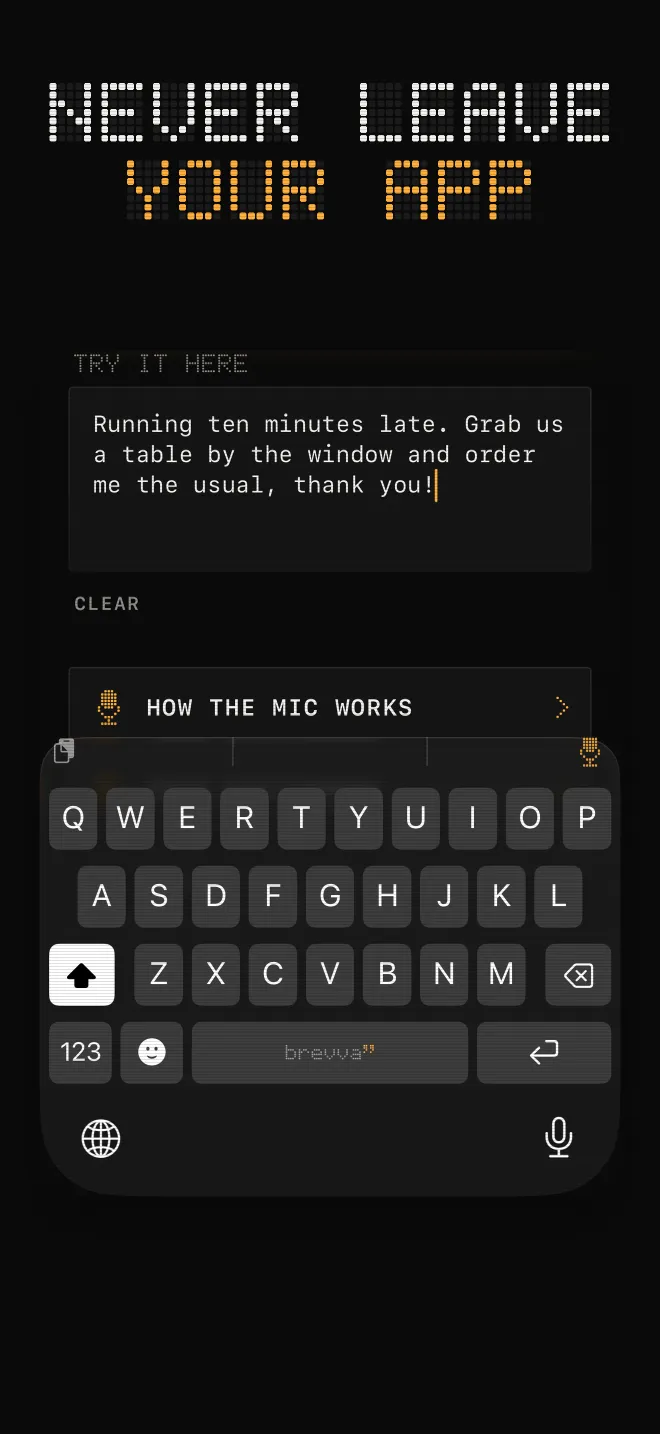
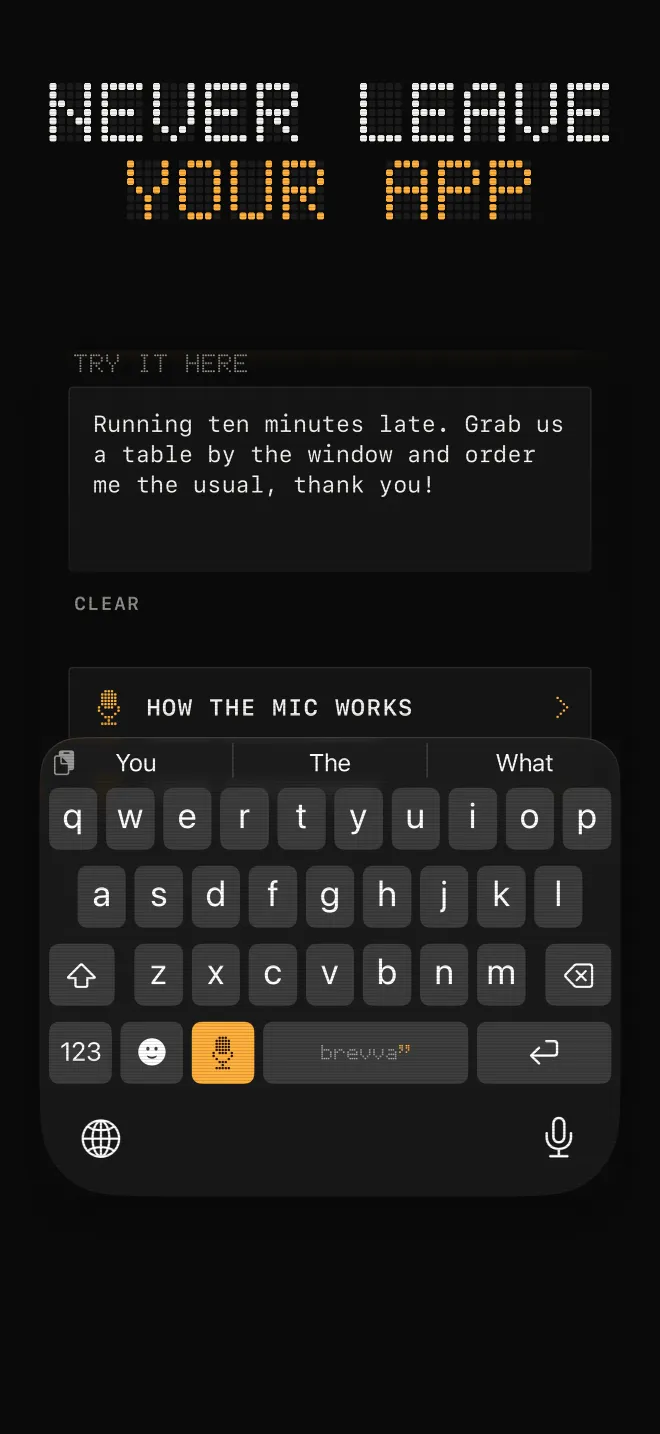
brevva keys: pictures of 2.1 (20), the mic key by the space bar, clipboard skips passwords from 2.1

diff --git a/brevva/privacy/index.html b/brevva/privacy/index.html
@@ -76,7 +76,7 @@
     <h2 id="typing">What you type</h2>
     <p>The keyboard reads the keys you tap and the shapes you swipe so it can show the letter, suggest words and fix slips. All of that happens on your iPhone. The keyboard makes no network connections of its own.</p>
     <p>To get better at your typing, it remembers some things on your iPhone: the words you keep, corrections you undo, which words tend to follow which, and where your thumbs tend to land on each key. The full list is <a href="#stored">below</a>.</p>
-    <p>With Full Access on, it also keeps your last ten copied snippets so you can paste them again from the bar above the keys. It looks at the clipboard when the keyboard opens, and only if something new was copied. It keeps any copied text of 500 characters or less. That can include a code or a password you copied in another app, so it is worth knowing it is there. It stays on your iPhone.</p>
+    <p>With Full Access on, it also keeps your last ten copied snippets so you can paste them again from the bar above the keys. It looks at the clipboard when the keyboard opens, and only if something new was copied. It keeps copied text of 500 characters or less. From version 2.1 it skips anything the copying app marks as a password or a one-time code (password managers mark them), and Clear at the end of the row empties the list. In version 2.0 it can keep a code or a password you copied, so it is worth knowing it is there. It stays on your iPhone.</p>
 
     <h2 id="voice">What you say</h2>
     <h3>In the keyboard (version 2.1)</h3>
@@ -102,7 +102,7 @@
         <tr><th scope="row">Where your thumbs land on each key</th><td data-h="Why">So taps near the edge of a key go to the key you meant.</td><td data-h="Remove">Settings › Your words › Forget how you tap.</td></tr>
         <tr><th scope="row">Words you dictate, with counts</th><td data-h="Why">So they are suggested when you type.</td><td data-h="Remove">Deleting the app. See <a href="#delete">the note below</a> about deleting them inside the app.</td></tr>
         <tr><th scope="row">Dictations from the keyboard, waiting for the app</th><td data-h="Why">So the app can count their words.</td><td data-h="Remove">Cleared the next time you open the app.</td></tr>
-        <tr><th scope="row">Your last ten copied snippets</th><td data-h="Why">So you can paste them again from the bar.</td><td data-h="Remove">Newer copies push older ones out. Deleting the app removes them.</td></tr>
+        <tr><th scope="row">Your last ten copied snippets</th><td data-h="Why">So you can paste them again from the bar.</td><td data-h="Remove">Newer copies push older ones out. Clear in the bar empties them (version 2.1). Deleting the app removes them.</td></tr>
         <tr><th scope="row">The last dictation handed to the keyboard</th><td data-h="Why">So the words reach the app you were typing in.</td><td data-h="Remove">Replaced by the next dictation.</td></tr>
         <tr><th scope="row">Recent emoji and your settings</th><td data-h="Why">So the keyboard behaves the way you set it.</td><td data-h="Remove">Deleting the app.</td></tr>
         <tr><th scope="row">A timing log</th><td data-h="Why">How long the keyboard took to respond, so slow spots can be found. It holds timings, not your letters.</td><td data-h="Remove">It starts over past 2&nbsp;MB. Deleting the app removes it.</td></tr>

diff --git a/brevva/support/index.html b/brevva/support/index.html
@@ -81,7 +81,7 @@
 
     <h2 id="dictate">Use the mic</h2>
     <h3>Version 2.1: in the keyboard</h3>
-    <p>Tap the amber mic on the brevva keys keyboard. The keys turn into a small display that listens, and your words appear as you speak. Tap <strong>Add</strong> to put them where you were typing, or cancel to throw them away. It listens for up to three minutes at a time.</p>
+    <p>Tap the amber mic key next to the space bar. The keyboard listens, and your words appear, large, as you speak. Tap <strong>Add</strong> to put them where you were typing, or cancel to throw them away. It listens for up to three minutes at a time.</p>
     <p>The globe and microphone in the strip below the keys belong to iOS. That microphone starts Apple’s own dictation, not brevva keys.</p>
     <p>If your iPhone has Apple Intelligence turned on, the words you added are swapped a moment later for a second, more careful tidy, done on the phone. If you have typed on since, it leaves them as they are.</p>
     <h3>Version 2.0, or when the keyboard cannot listen</h3>
@@ -96,7 +96,7 @@
       <li><strong>Swipe:</strong> slide from letter to letter and lift. Pick another word from the bar if it guessed wrong.</li>
       <li><strong>Move the cursor:</strong> hold the space bar and slide.</li>
       <li><strong>Your shortcuts:</strong> text replacements from <span class="path">Settings › General › Keyboard › Text Replacement</span> work here too.</li>
-      <li><strong>Recent copies:</strong> tap the clipboard button at the left end of the bar to see your last ten copied snippets, and tap one to type it.</li>
+      <li><strong>Recent copies:</strong> tap the clipboard button at the left end of the bar to see your last ten copied snippets, and tap one to type it. Clear at the end of the row empties the list (version 2.1).</li>
       <li><strong>Turn things off:</strong> autocorrect, predictive text, swipe, auto-capitalisation, the full stop shortcut, smart punctuation, caps lock, key popups and haptics each have a switch in the app’s Settings.</li>
     </ul>
 
@@ -109,7 +109,7 @@
       <li><strong>Save words you type</strong> off stops the keyboard learning anything new from your typing.</li>
     </ul>
     <p>A known problem in versions 2.0 and 2.1: words learned from dictation can come back after you delete them, the next time the app learns from a dictation. Deleting the app removes everything it learned, for good.</p>
-    <p>Recent copies are not in Your dictionary. Newer copies push older ones out, and deleting the app clears them. <a href="/brevva/privacy/#stored">The full list of what it keeps.</a></p>
+    <p>Recent copies are not in Your dictionary. Newer copies push older ones out, Clear in the bar empties them (version 2.1), and deleting the app clears them. <a href="/brevva/privacy/#stored">The full list of what it keeps.</a></p>
 
     <h2 id="fixes">Something is not working</h2>
     <details class="fix">

diff --git a/brevva/index.html b/brevva/index.html
@@ -56,7 +56,7 @@
       <div>
         <p class="status" aria-hidden="true"><span class="dots"><span class="lamp"></span>Ready</span><span class="dots dim">On this phone</span></p>
         <h1>Talk in any app, and brevva keys types it for you.</h1>
-        <p class="lede">brevva keys is a keyboard for iPhone with dictation built in. Tap the mic key and the keys turn into a small display that listens. Your words appear as you speak. Tap Add and they drop into the message, email or note you were writing.</p>
+        <p class="lede">brevva keys is a keyboard for iPhone with dictation built in. Tap the amber mic key next to the space bar and the keyboard listens. Your words appear, large, as you speak. Tap Add and they drop into the message, email or note you were writing.</p>
         <div class="cta-row">
           <a class="key" href="https://apps.apple.com/app/id6761425575">Get brevva keys on the App Store</a>
           <a class="quiet" href="#privacy">Where your words go</a>
@@ -73,7 +73,7 @@
            Swap brevva/assets/shots/listening.webp for a new capture when the panel changes. -->
       <figure class="hero-shot">
         <img src="/brevva/assets/shots/listening.webp" width="900" height="710" fetchpriority="high" decoding="async"
-             alt="The brevva keys keyboard listening. A dark display reads LISTENING 0:11 over a strip of lit amber dots. Below it the words so far: Running ten minutes late. Grab us a table by the window and order me the usual, thank you! The last words are in amber. Under them a close key, 18 WORDS, and an amber Add key.">
+             alt="The brevva keys keyboard listening. A small status line reads LISTENING and 0:17 in amber dot letters beside a dot level meter. Below it, large, the words so far: Running ten minutes late. Grab us a table by the window and order me the usual, thank you! The last words, still being heard, are in amber. Under them a CANCEL key and an amber ADD key.">
         <figcaption>The keyboard listening, in version 2.1. A screenshot from the app; the words are a sample.</figcaption>
       </figure>
     </div>
@@ -94,7 +94,7 @@
           <h2>Tap the mic, talk, tap Add.</h2>
         </div>
         <ol class="steps">
-          <li><div><h3>Tap the mic</h3><p>The mic on the brevva keys keyboard, in amber. The keys turn into a small display that listens.</p></div></li>
+          <li><div><h3>Tap the mic</h3><p>The amber key next to the space bar. The keyboard listens, and your words appear as you speak.</p></div></li>
           <li><div><h3>Talk</h3><p>Your words appear as you speak. It listens for up to three minutes at a time.</p></div></li>
           <li><div><h3>Tap Add</h3><p>The words go in where you were typing, already tidied. You never leave the app you are in.</p></div></li>
         </ol>
